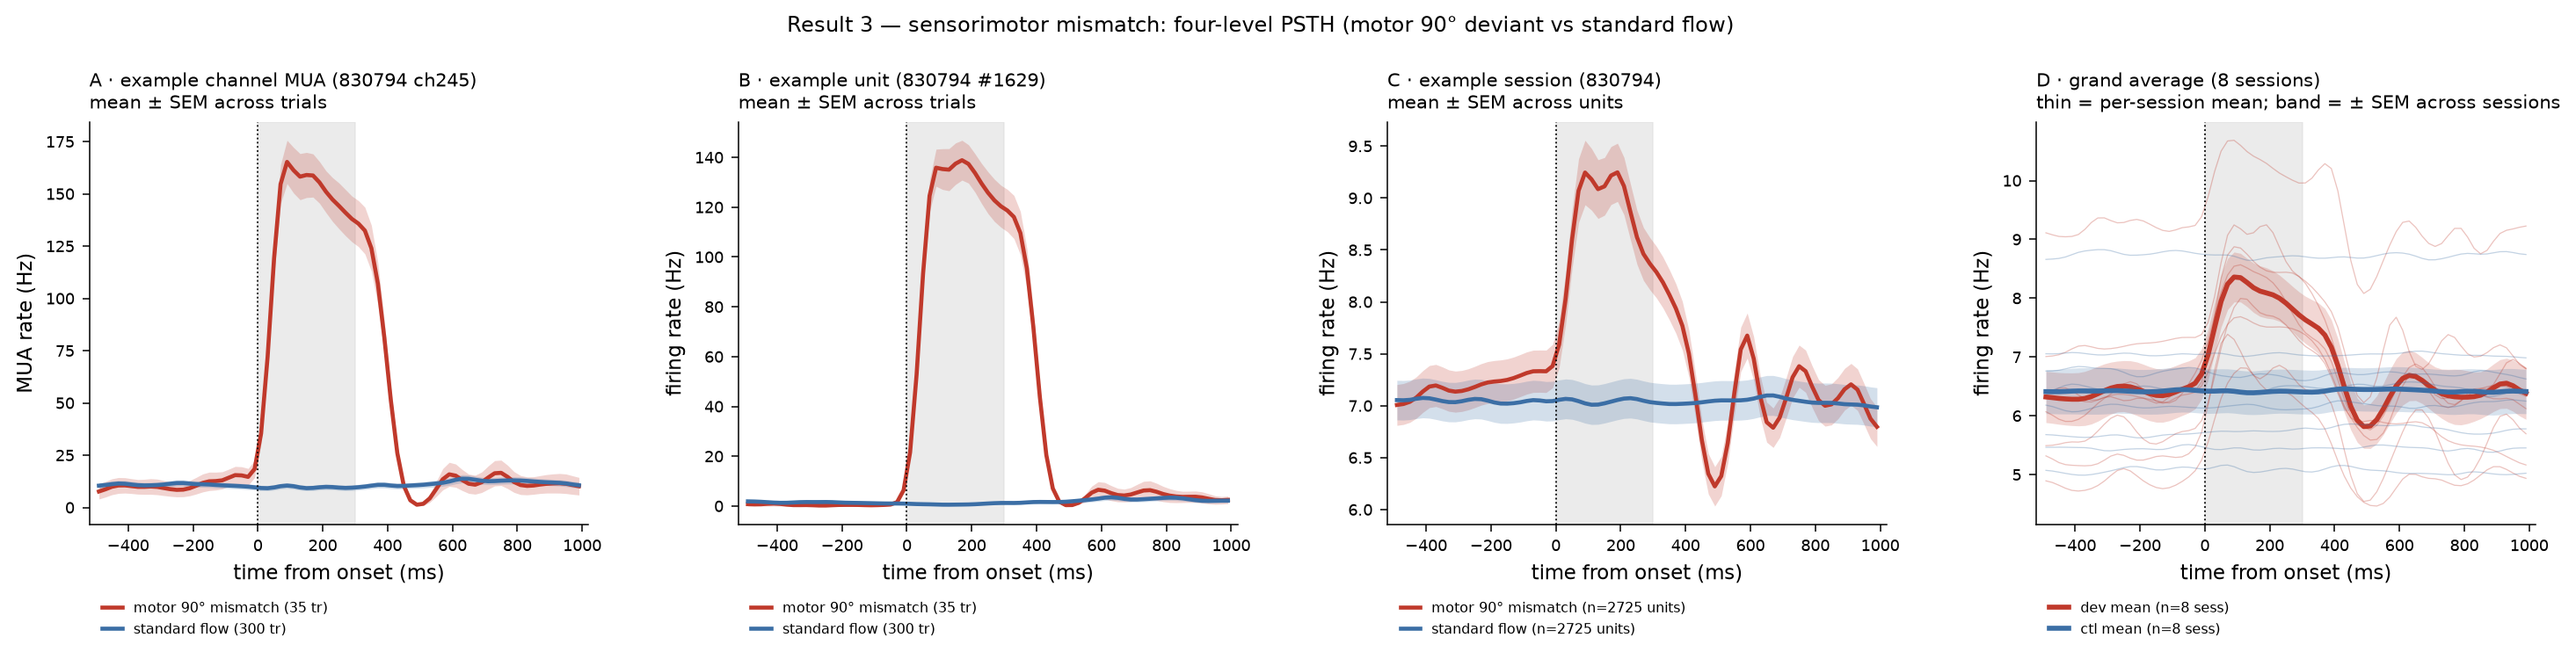
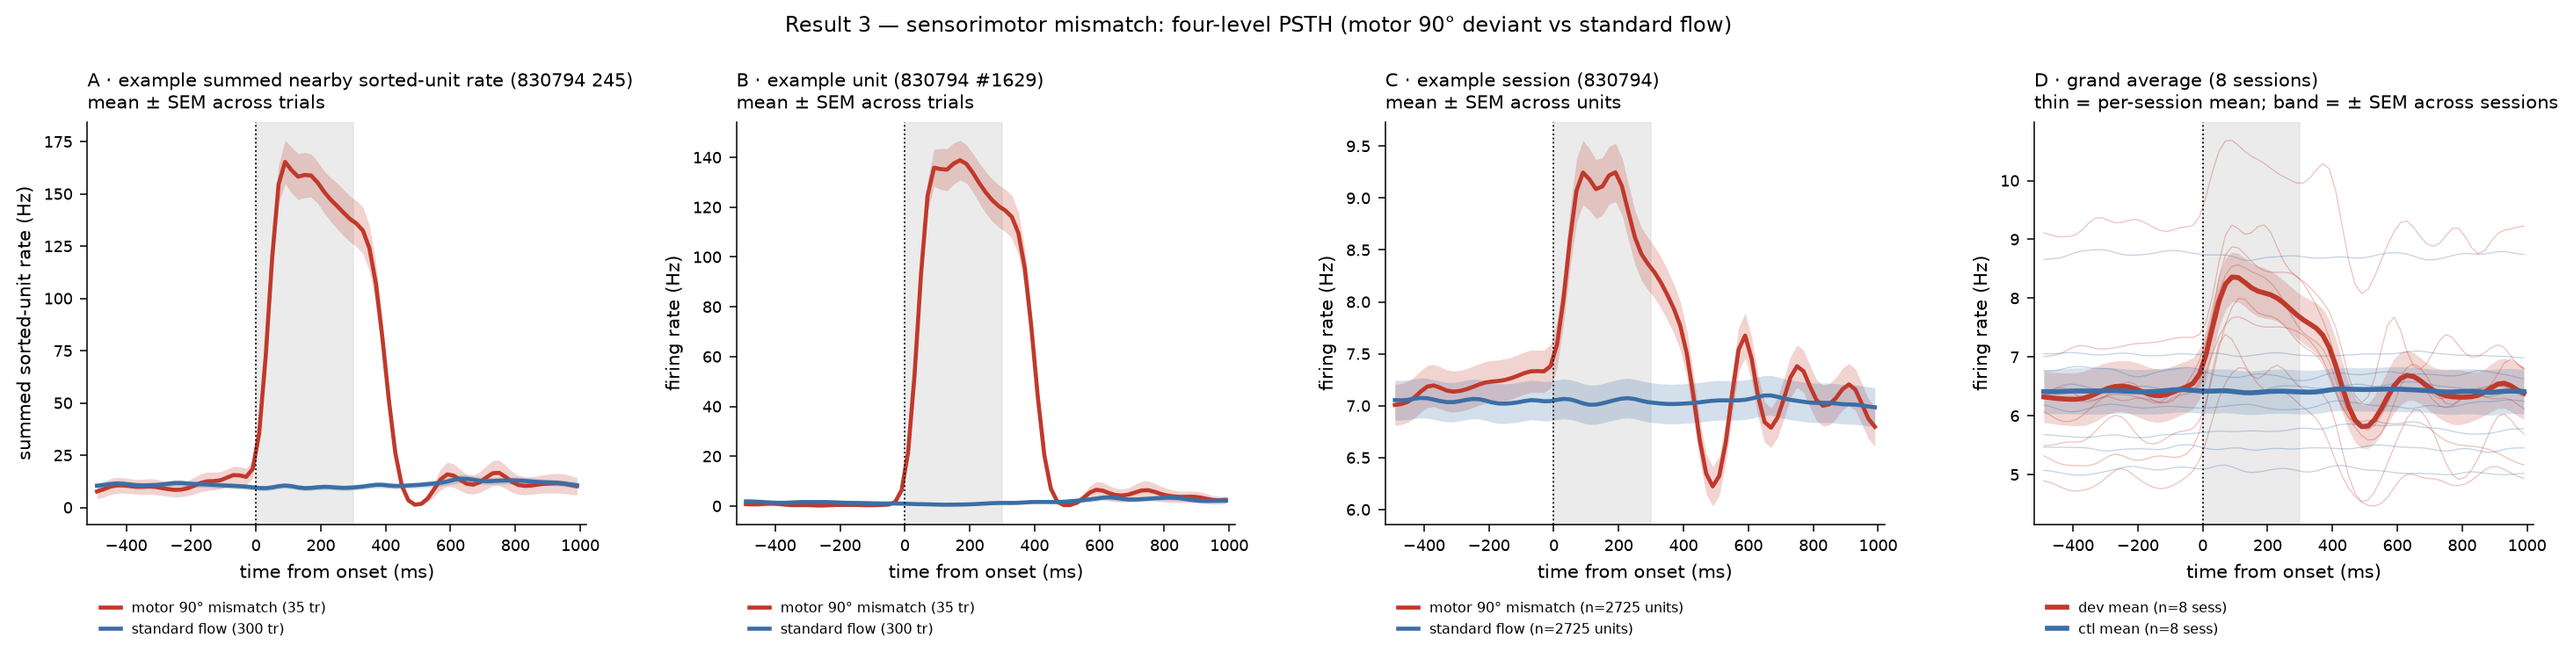
Rename PSTH panel A "MUA" -> "summed nearby sorted-unit rate" (it is not raw AP-band MUA)
Audit (valid, medium severity): the PSTH panel-A trace is built by concatenating spike times of the
SORTED units on the best unit's channel (+/-2 channel neighbourhood), then labeled "channel MUA" /
"true multiunit". That is not raw threshold-crossing / AP-band MUA — it depends on spike-sorting
yield and can include sorting artefacts/duplicates. (The CCF figure module's depth profile was
already renamed "summed sorted-unit rate" in an earlier pass; this closes the same mislabel in the
PSTH path.)

Renamed throughout to "summed nearby sorted-unit rate", with an explicit note that it is a
trigger/timebase sanity check, not a quantitative MUA measure, and that genuine MUA would require the
raw electrical series:
- psth_three_level.py: default panelA_kind/panelA_ylabel + docstring + panel-A comment.
- psth_extract.py: header, docstring, and the extraction comment (dropped "true multiunit").
- The four ephys notebooks' PSTH-cell comments.
- README Result 1 caption + prose (the only result that named "MUA"/"multiunit").
- Regenerated the four committed ephys figures (r1/r3/r4/r5_psth_fourlevel.png) so the baked-in
  panel-A titles/axis now read "summed nearby sorted-unit rate" — re-streamed all sessions via each
  notebook's own PSTH cell (the data is unchanged; only the label differs).

The imaging notebooks (mesoscope/SLAP2) already override panel A to plane/DMD mean dF/F, so they were
never mislabeled.

diff --git a/notebooks/psth_three_level.py b/notebooks/psth_three_level.py
@@ -72,17 +72,22 @@ def psth_by_layer(paradigms, smooth=1.5, resp_win=None, suptitle=None, savepath=
 def psth_three_level(cen, example, sessions, resp_win=None, dev_label="deviant",
                      ctl_label="control", dev_color="#c0392b", ctl_color="#3b6ea5",
                      smooth=1.5, ylabel="firing rate (Hz)", suptitle=None, savepath=None,
-                     panelA_kind="channel MUA", panelA_ylabel="MUA rate (Hz)"):
+                     panelA_kind="summed nearby sorted-unit rate", panelA_ylabel="summed sorted-unit rate (Hz)"):
     """
     Four-level PSTH diagnostic (systems-neuro standard):
-      A example CHANNEL (MUA, all units on one channel) - trial mean +/- SEM  [trigger/timebase check]
+      A example CHANNEL (summed nearby sorted-unit rate) - trial mean +/- SEM  [trigger/timebase check]
       B example UNIT (single sorted unit)               - trial mean +/- SEM
       C example SESSION                                  - unit  mean +/- SEM
       D grand average across sessions                    - per-session lines + across-session mean +/- SEM
 
+    NOTE on panel A: this is NOT raw threshold-crossing / AP-band multiunit activity. It is the
+    pooled spike train of the sorted units on the best unit's channel (+/-2 channel neighbourhood),
+    so it depends on spike-sorting yield and can carry sorting artefacts/duplicates. It is used only
+    as a trigger/timebase sanity check, not as a quantitative MUA measure.
+
     cen       : (T,) bin-centre times in SECONDS.
     example   : dict with 'subject','uid','dev_trials','ctl_trials' (n_trials x T) for the example unit,
-                and 'mua_ch','mua_dev','mua_ctl' (n_trials x T) for the example channel's MUA.
+                and 'mua_ch','mua_dev','mua_ctl' (n_trials x T) for the example channel's summed rate.
     sessions  : list of dicts, each {'subject','dev' (n_units x T),'ctl' (n_units x T)}.
     resp_win  : optional (t0,t1) seconds; shaded response window on every panel.
     Returns (fig, overlaps_count). Gaussian smoothing is display-only.
@@ -92,7 +97,7 @@ def psth_three_level(cen, example, sessions, resp_win=None, dev_label="deviant",
     fig, (axA, axB, axC, axD) = plt.subplots(1, 4, figsize=(16.0, 4.5))
     fig.subplots_adjust(left=0.05, right=0.99, top=0.82, bottom=0.27, wspace=0.30)
 
-    # ---- Panel A: example channel MUA, mean +/- SEM across trials ----
+    # ---- Panel A: example channel summed nearby sorted-unit rate, mean +/- SEM across trials ----
     if example.get("mua_dev") is not None:
         for M, c, lab in [(example["mua_dev"], dev_color, dev_label),
                           (example["mua_ctl"], ctl_color, ctl_label)]:

diff --git a/notebooks/psth_extract.py b/notebooks/psth_extract.py
@@ -1,4 +1,4 @@
-# Unified per-result PSTH extractor (streaming + MUA on best channel + trial PSTHs).
+# Unified per-result PSTH extractor (streaming + summed nearby sorted-unit rate on best channel + trial PSTHs).
 # Used to build the four-level diagnostic figures; one small get_onsets adapter per result.
 import numpy as np, h5py, remfile, requests, time
 
@@ -50,7 +50,7 @@ def extract_psth(sessions, get_onsets, example_subject, ds="001637",
     sessions       : list of (subject, date).
     get_onsets(fh) : returns (dev_onsets, ctl_onsets) 1-D arrays of event start-times (s).
     Returns dict {sess:[{subject,dev,ctl}], example:{...}, cen, resp}.
-      example carries the example unit's trial PSTHs AND the example channel's MUA trial PSTHs.
+      example carries the example unit's trial PSTHs AND the example channel's summed nearby sorted-unit trial PSTHs.
     """
     EDGES = np.arange(-PRE, POST + BW, BW); CEN = EDGES[:-1] + BW / 2
     def upsth(sp, times):
@@ -94,11 +94,14 @@ def extract_psth(sessions, get_onsets, example_subject, ds="001637",
         if subj == example_subject and example is None and len(rs):
             best_local = int(np.nanargmax(rs)); best = int(qidx[best_local])
             spb = st[starts[best]:sti[best]]
-            # MUA: units on the same channel (device_name, extremum_channel_index) as the best unit
+            # Summed nearby sorted-unit rate (NOT raw AP-band MUA): pool the spike trains of the
+            # sorted units on the best unit's channel (device_name, extremum_channel_index). This
+            # depends on spike-sorting yield and can include sorting artefacts/duplicates; it is a
+            # trigger/timebase sanity check only. Genuine MUA would need the raw electrical series.
             try:
                 dev_name = col(U, "device_name"); eci = U["extremum_channel_index"][:]
                 same = np.where((dev_name == dev_name[best]) & (eci == eci[best]) & qc)[0]
-                if len(same) < 2:  # widen to a +/-2 channel neighbourhood for a true multiunit
+                if len(same) < 2:  # widen to a +/-2 channel neighbourhood so the pooled trace isn't a single unit
                     same = np.where((dev_name == dev_name[best]) & (np.abs(eci - eci[best]) <= 2) & qc)[0]
                 mua_sp = np.sort(np.concatenate([st[starts[j]:sti[j]] for j in same]))
                 ch = int(eci[best]); n_mua = len(same)

diff --git a/README.md b/README.md
@@ -484,11 +484,13 @@ the confirmatory pool is in
 **Time-course diagnostic (four-level PSTH).** From the single channel up to the grand
 average, each level carries a variance band and the shaded response window:
 
-![Result 1 four-level PSTH: example channel MUA, example unit, example session, grand average across 9 sessions](figures/r1_psth_fourlevel.png)
+![Result 1 four-level PSTH: example channel summed nearby sorted-unit rate, example unit, example session, grand average across 9 sessions](figures/r1_psth_fourlevel.png)
 
-The example channel's multiunit (panel A) is the most direct trigger/timebase check — a
-clean onset at t = 0 and the next grating appearing at ~400 ms (the 701 ms cadence) confirm
-the alignment. The 90° oddball (red) exceeds the frequent **standard** (blue) at every level,
+Panel A is the **summed nearby sorted-unit rate** — the pooled spike train of the sorted
+units on the example channel (±2-channel neighbourhood). It is *not* raw threshold-crossing
+/ AP-band MUA (it depends on spike-sorting yield), so it serves only as the most direct
+trigger/timebase check — a clean onset at t = 0 and the next grating appearing at ~400 ms
+(the 701 ms cadence) confirm the alignment. The 90° oddball (red) exceeds the frequent **standard** (blue) at every level,
 and all 9 per-session means move together in the grand average (panel D) — the effect is not
 carried by one animal, and the response window sits on the peak. **Note on the contrast shown:**
 this PSTH plots the oddball against the *frequent standard* — the adaptation view, which makes the
